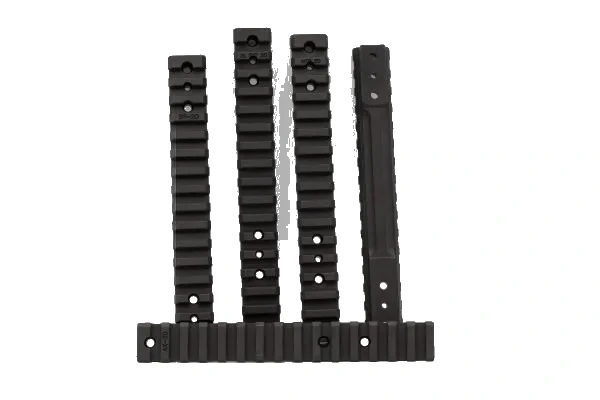
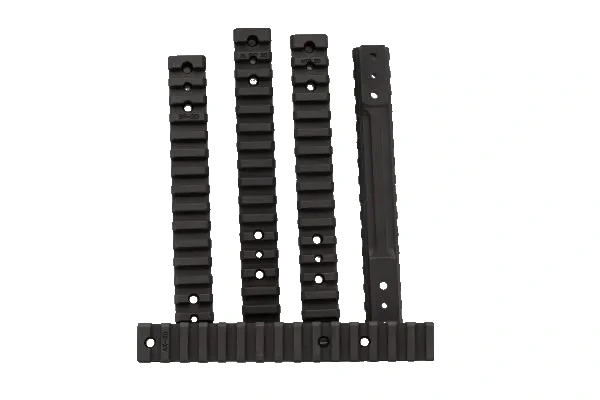
Threshold-clean rails: kill residual under-shadow
Switched the rails cleanup to pure pixel-threshold (mean > 130 → #FFFFFF).
The rails are essentially pure black so the threshold is safe, and unlike
rembg it doesn't get fooled by the soft under-shadow gradient. Affects
all 8 Borden Rail products (BR, BRL, BRLXD, BRM, BRMXD, LA, Ridge, SA).

Changed region(s): [[0.45, 0.15, 0.54, 0.6], [0.57, 0.15, 0.6, 0.27], [0.27, 0.42, 0.3, 0.54]]

diff --git a/clean_rails.py b/clean_rails.py
@@ -1,11 +1,10 @@
 #!/usr/bin/env python3
-"""Aggressive cleanup for the Borden rail images.
-Strategy: rembg with alpha matting → composite on white → threshold residual
-near-whites to pure #FFFFFF. The subject is essentially black so this is safe."""
+"""Pure-threshold cleanup for the Borden rail images.
+The rails are essentially pure black (brightness < 50). The gray shadow
+between them is 100-180 brightness. A 130-threshold cleans the shadow
+completely while leaving the rails intact."""
 import os
-import shutil
 from PIL import Image
-from rembg import remove, new_session
 
 SHOP_DIR = "assets/images/shop"
 BACKUP_DIR = "assets/images/shop_originals"
@@ -15,46 +14,30 @@ TARGETS = [
     "Borden-Rem700_Rail.webp",
 ]
 
-session = new_session("u2net")
+THRESHOLD = 130  # mean(R,G,B) > THRESHOLD → snap to pure white
 
 
-def clean(src, dst):
-    img = Image.open(src).convert("RGBA")
-    # Aggressive rembg: alpha matting with tight thresholds
-    out = remove(
-        img,
-        session=session,
-        alpha_matting=True,
-        alpha_matting_foreground_threshold=240,
-        alpha_matting_background_threshold=10,
-        alpha_matting_erode_size=10,
-    )
-    # Composite onto pure white
-    white = Image.new("RGB", out.size, (255, 255, 255))
-    if out.mode == "RGBA":
-        white.paste(out, mask=out.split()[3])
-    else:
-        white.paste(out.convert("RGB"))
-
-    # Post-threshold: any near-white pixel → pure white. Subject is black
-    # so this only cleans residual halos / soft shadows.
-    px = white.load()
-    w, h = white.size
+def threshold_clean(src, dst):
+    img = Image.open(src).convert("RGB")
+    w, h = img.size
+    px = img.load()
+    cleaned = 0
     for y in range(h):
         for x in range(w):
             r, g, b = px[x, y]
-            if (r + g + b) / 3 > 180:
+            if (r + g + b) / 3 > THRESHOLD:
                 px[x, y] = (255, 255, 255)
-
+                cleaned += 1
     ext = os.path.splitext(dst)[1].lower()
     if ext in (".jpg", ".jpeg"):
-        white.save(dst, "JPEG", quality=92)
+        img.save(dst, "JPEG", quality=92)
     elif ext == ".webp":
-        white.save(dst, "WEBP", quality=92)
+        img.save(dst, "WEBP", quality=92)
     elif ext == ".png":
-        white.save(dst, "PNG")
+        img.save(dst, "PNG")
     else:
-        white.save(dst)
+        img.save(dst)
+    return cleaned, w * h
 
 
 for name in TARGETS:
@@ -63,5 +46,6 @@ for name in TARGETS:
     if not os.path.exists(src):
         print(f"  ✗ missing original: {name}")
         continue
-    clean(src, dst)
-    print(f"  ✓ {name:40s} cleaned")
+    cleaned, total = threshold_clean(src, dst)
+    pct = 100 * cleaned / total
+    print(f"  ✓ {name:35s} {cleaned}/{total} px → white ({pct:.1f}%)")
